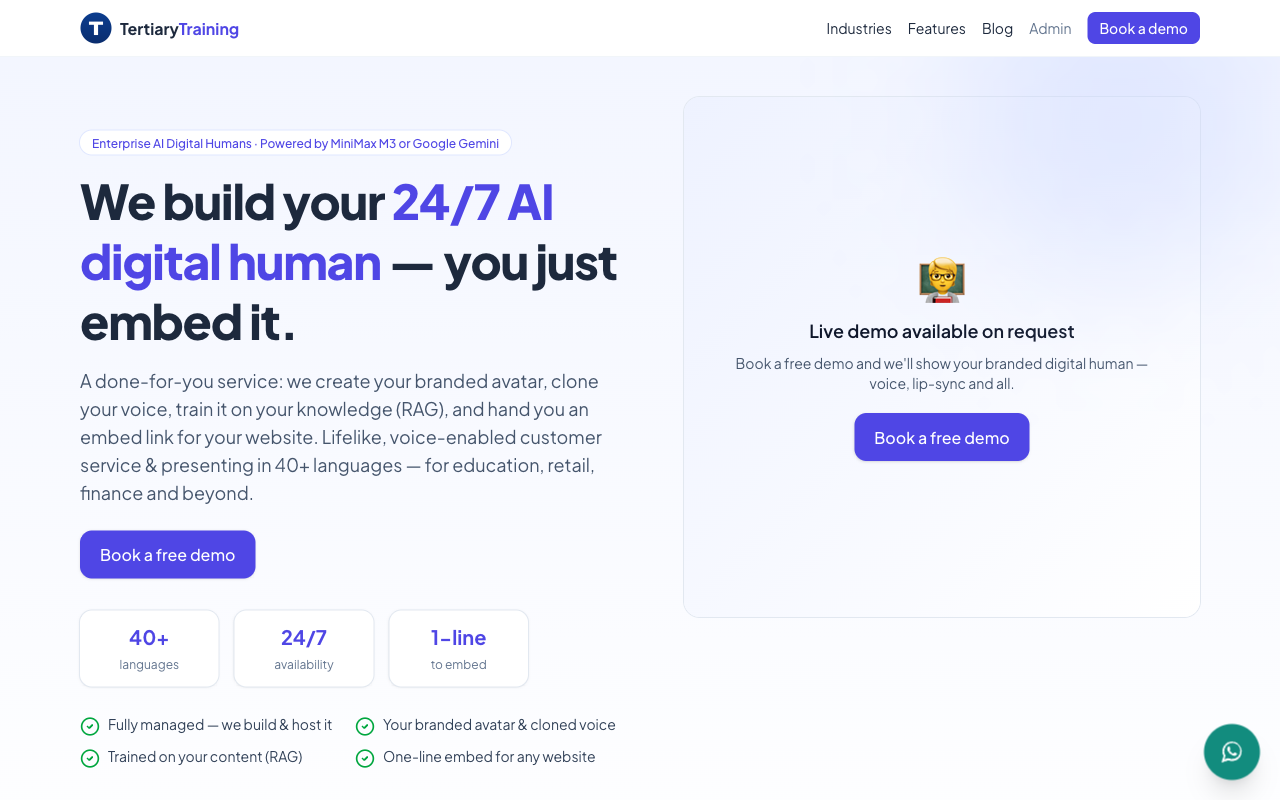
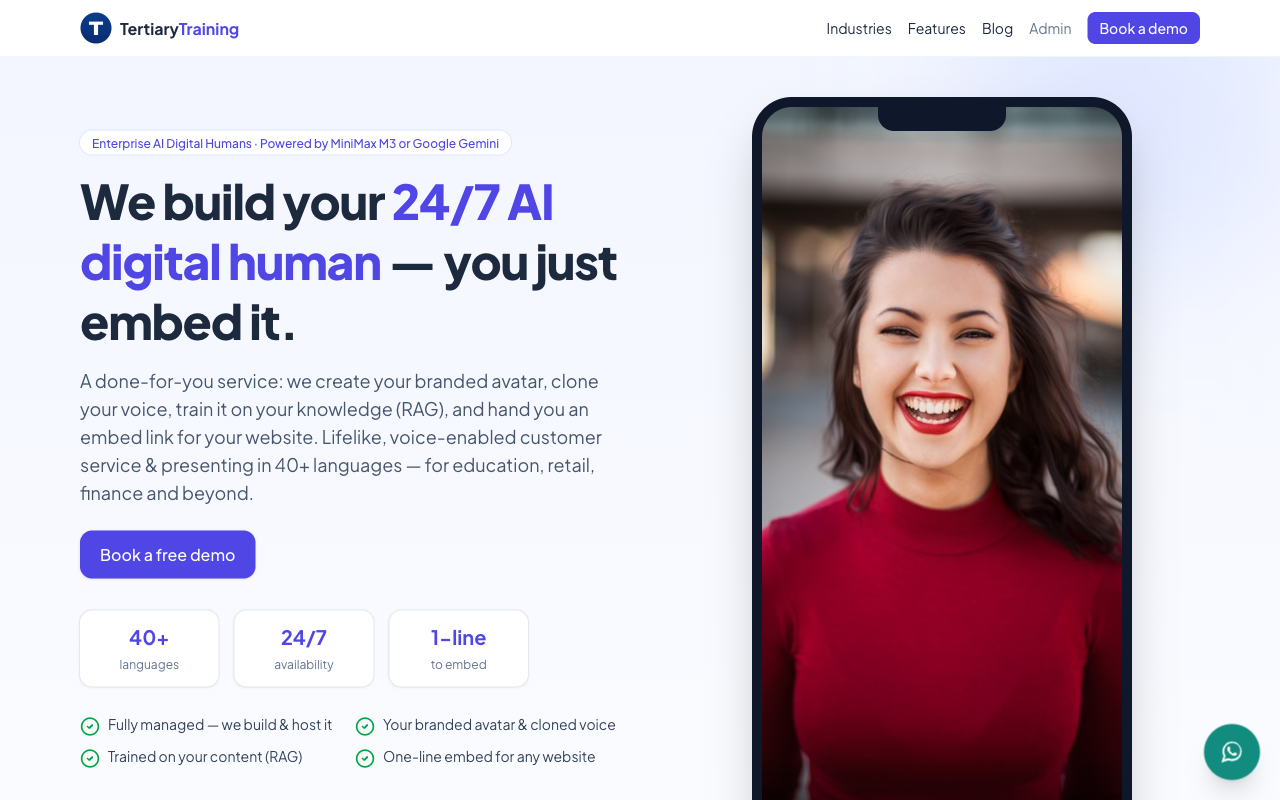
fix: center hero on mobile and always show "Try it live" card
- Add min-w-0 to the hero grid columns so the avatar widget's fixed width no
  longer blows out the grid track on mobile (content was overflowing the right
  padding by ~22px, making the page look left-shifted). Now it respects the
  container padding and is properly centered.
- Show the "Try it live" card whenever a ready avatar exists, not only when the
  demo is enabled; the badge reads "Interactive demo" (amber) when the live demo
  is off. The /chat/[id] page now also honours the demo switch (demoOff) so the
  teaser never spends API tokens while the demo is off.

Changed region(s): [[0.5625, 0.0938, 0.9062, 1.0]]

diff --git a/src/app/page.tsx b/src/app/page.tsx
@@ -63,7 +63,7 @@ export default async function Home() {
       <section className="relative overflow-hidden bg-gradient-to-b from-indigo-50/70 to-white">
         <div className="pointer-events-none absolute -top-24 right-0 h-80 w-80 rounded-full bg-indigo-200/40 blur-3xl" />
         <div className="mx-auto grid max-w-6xl items-start gap-10 px-4 pb-12 pt-10 lg:grid-cols-2">
-          <div className="lg:pt-8">
+          <div className="min-w-0 lg:pt-8">
             <span className="inline-block rounded-full bg-white px-3 py-1 text-xs font-medium text-brand ring-1 ring-indigo-100">
               Enterprise AI Digital Humans · Powered by MiniMax M3 or Google Gemini
             </span>
@@ -116,15 +116,16 @@ export default async function Home() {
               ))}
             </div>
 
-            {/* Try it live — sits below 'Use it for', pointing right to the avatar */}
-            {demoAvatar && (
+            {/* Try it live — always shown when an avatar exists; the badge + chat target
+                adapt when the demo is switched off so it stays an honest teaser. */}
+            {readyAvatar && (
               <div id="demo" className="mt-8 rounded-3xl bg-gradient-to-br from-brand to-indigo-700 p-6 text-white shadow-xl ring-1 ring-brand/30 sm:p-8">
                 <span className="inline-flex items-center gap-2 rounded-full bg-white/20 px-3 py-1 text-xs font-semibold uppercase tracking-wide">
                   <span className="relative flex h-2.5 w-2.5">
-                    <span className="absolute inline-flex h-full w-full animate-ping rounded-full bg-green-300 opacity-75" />
-                    <span className="relative inline-flex h-2.5 w-2.5 rounded-full bg-green-400" />
+                    {demoEnabled && <span className="absolute inline-flex h-full w-full animate-ping rounded-full bg-green-300 opacity-75" />}
+                    <span className={`relative inline-flex h-2.5 w-2.5 rounded-full ${demoEnabled ? "bg-green-400" : "bg-amber-300"}`} />
                   </span>
-                  Live demo
+                  {demoEnabled ? "Live demo" : "Interactive demo"}
                 </span>
                 <h2 className="mt-3 text-2xl font-extrabold leading-snug sm:text-3xl">Try it live, right now →</h2>
                 <p className="mt-2 text-sm text-indigo-100 sm:text-base">
@@ -133,7 +134,7 @@ export default async function Home() {
                 </p>
                 <div className="mt-5 flex flex-wrap gap-3">
                   <a
-                    href={`/chat/${demoAvatar.id}`}
+                    href={`/chat/${readyAvatar.id}`}
                     target="_blank"
                     className="inline-flex items-center gap-2 rounded-xl bg-white px-5 py-3 font-semibold text-brand shadow-sm transition hover:bg-indigo-50"
                   >
@@ -150,7 +151,7 @@ export default async function Home() {
             )}
           </div>
 
-          <div className="lg:pl-6">
+          <div className="min-w-0 lg:pl-6">
             {readyAvatar ? (
               // Always show the avatar. When the demo is switched off (DEMO_ENABLED=false),
               // the widget renders read-only: sending text or using voice replies with a

diff --git a/src/app/chat/[id]/page.tsx b/src/app/chat/[id]/page.tsx
@@ -1,5 +1,6 @@
 import { notFound } from "next/navigation";
 import { prisma } from "@/lib/db";
+import { getSetting } from "@/lib/settings";
 import ChatWidget from "@/components/ChatWidget";
 
 export const dynamic = "force-dynamic";
@@ -9,6 +10,10 @@ export default async function ChatPage({ params }: { params: Promise<{ id: strin
   const avatar = await prisma.avatar.findUnique({ where: { id } });
   if (!avatar) notFound();
 
+  // Honour the landing-page demo switch here too, so the "Chat with the avatar"
+  // teaser doesn't spend API tokens while the demo is turned off.
+  const demoEnabled = (await getSetting("DEMO_ENABLED")) === "true";
+
   return (
     <div className="min-h-screen bg-slate-100 px-4 py-8">
       <div className="mx-auto max-w-md">
@@ -17,6 +22,7 @@ export default async function ChatPage({ params }: { params: Promise<{ id: strin
           name={avatar.name}
           greeting={avatar.greeting}
           portraitUrl={avatar.portraitUrl ?? undefined}
+          demoOff={!demoEnabled}
         />
       </div>
     </div>
